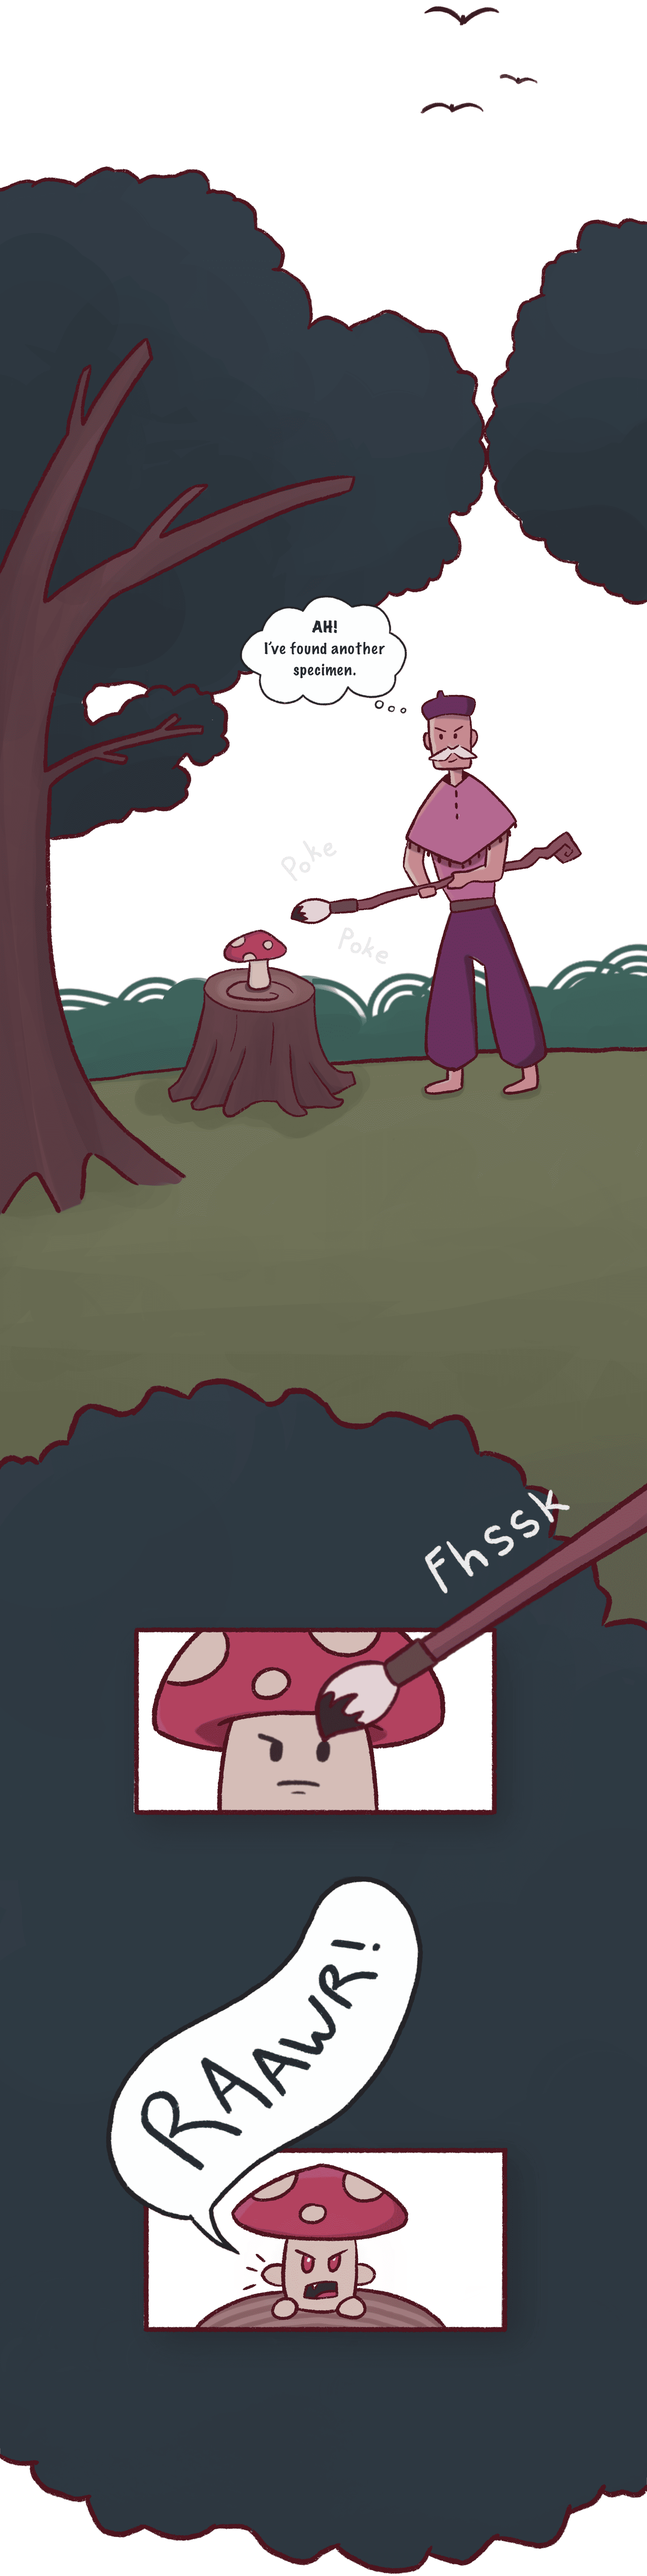
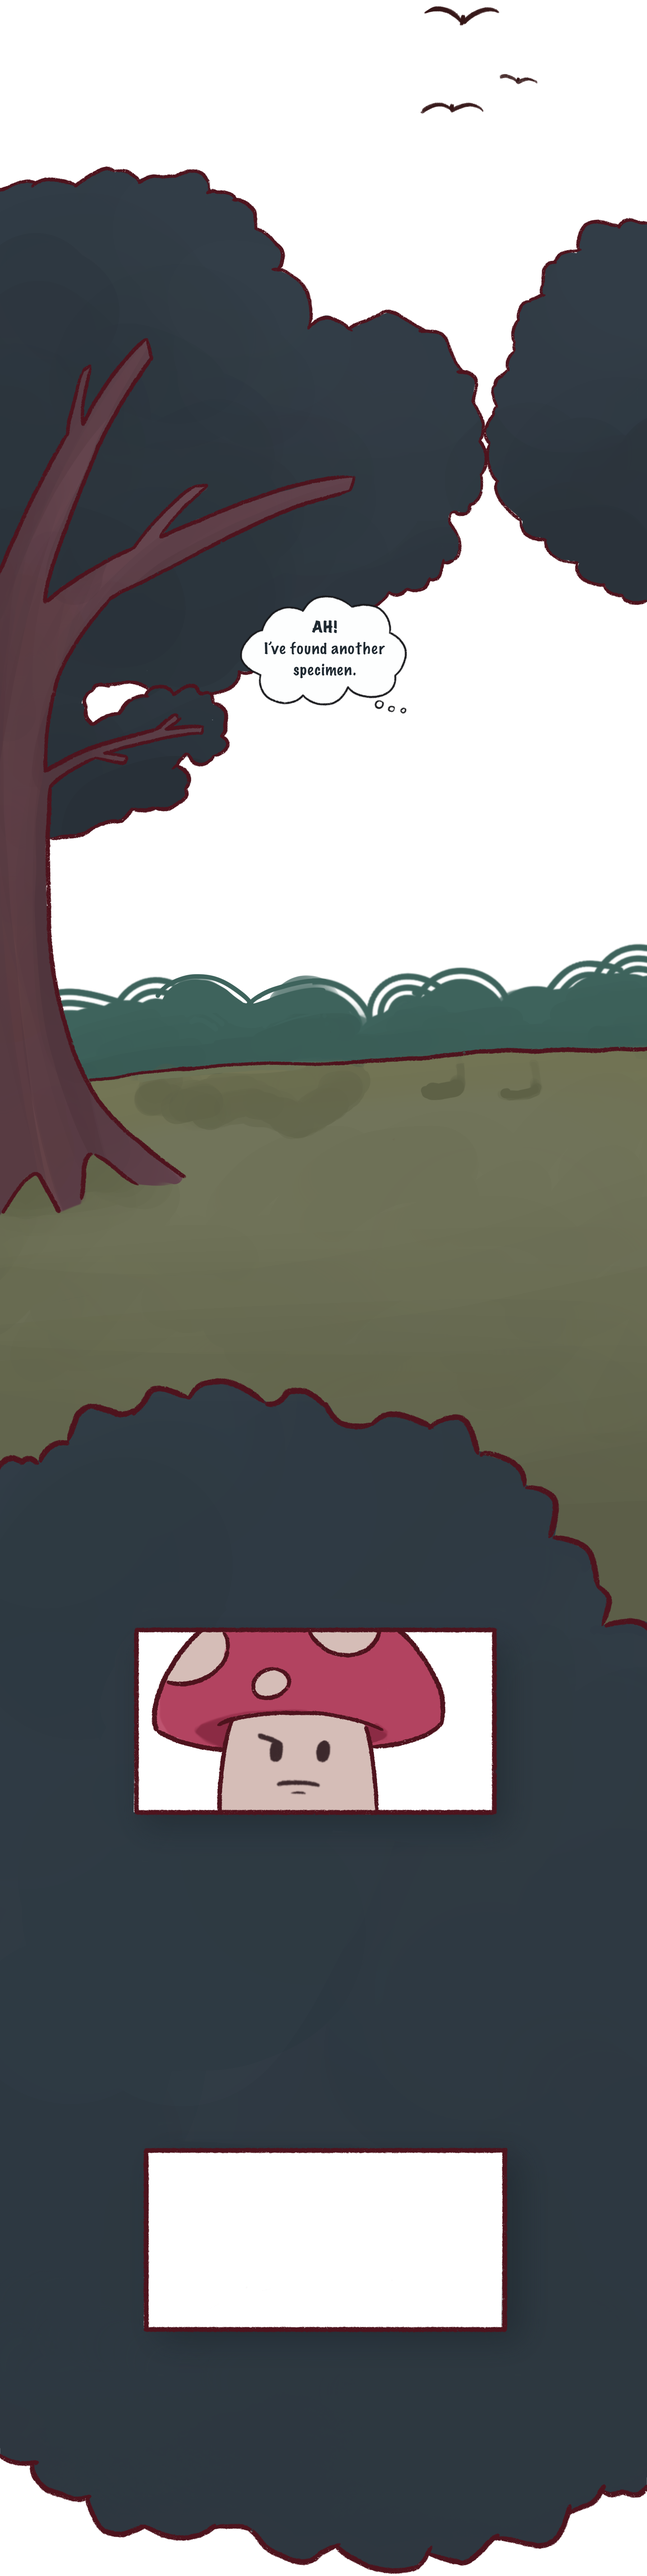
Finished Project 3 Deliverable 2

diff --git a/src/components/Comic1.vue b/src/components/Comic1.vue
@@ -9,6 +9,15 @@
 
             <img src="@/assets/images/comic/part1/1.png" class="one">
             <img src="@/assets/images/comic/part1/2.png" class="two">
+            <img src="@/assets/images/comic/part1/brush.png" class="paralx_brush">
+            
+            <img src="@/assets/images/comic/part1/poke_animation.gif" class="poke">
+            <img src="@/assets/images/comic/part1/rawr_animation.gif" class="rawr">
+            <img src="@/assets/images/comic/part1/fungarh_animation.gif" class="fugnarh">
+
+            <img src="@/assets/images/comic/part1/whisp1.png" class="hover w1">
+            <img src="@/assets/images/comic/part1/whisp2.png" class="hover w2">
+            <img src="@/assets/images/comic/part1/whisp3.png" class="hover w3">
             
 
         </div>
@@ -16,8 +25,6 @@
   </template>
   
 <script>
-
-
 </script>
 
 <style scoped>
@@ -49,6 +56,64 @@
         top: 120vw;
         left: 0vw;
         width: 100vw;
+        z-index: 100;
+    }
+
+    .poke{
+        position: absolute;
+        top: 206.5vw;
+        left: 0vw;
+        width: 100vw;
+        z-index: 100;
+    }
+
+    
+    .paralx_brush{
+        position: absolute;
+        top: 349vw;
+        left: 35vw;
+        width: 100vw;
+        z-index: 200;
+        transition: left 0.1s linear;
+    }
+
+    .rawr{
+        position: absolute;
+        top: 407vw;
+        left: 0vw;
+        width: 100vw;
+        z-index: 100;
+    }
+
+    .fugnarh{
+        position: absolute;
+        top: 570vw;
+        left: 6vw;
+        width: 85vw;
+        z-index: 100;
+    }
+
+    .w1{
+        position: absolute;
+        top: 515vw;
+        left: -2vw;
+        width: 45vw;
+        z-index: 100;
+    }
+
+    .w2{
+        position: absolute;
+        top: 875vw;
+        left: 0vw;
+        width: 35vw;
+        z-index: 100;
+    }
+
+    .w3{
+        position: absolute;
+        top: 1058vw;
+        left: 0vw;
+        width: 53vw;
         z-index: 100;
     }
 

diff --git a/src/components/Comic2.vue b/src/components/Comic2.vue
@@ -6,7 +6,15 @@
 
             <img src="@/assets/images/comic/part2/3.png" class="three">
             <img src="@/assets/images/comic/part2/4.png" class="four">
+
+            <img src="@/assets/images/comic/part2/sky.png" class="sky">
+
+            <img src="@/assets/images/comic/part2/cloud1.png" class="cloud1">
+            <img src="@/assets/images/comic/part2/cloud2.png" class="cloud2">
+            <img src="@/assets/images/comic/part2/cloud3.png" class="cloud3">
             
+            <img src="@/assets/images/comic/part2/evil_animation.gif" class="evil">
+            <img src="@/assets/images/comic/part2/whisp4.png" class="hover w4">
 
         </div>
     </div>
@@ -32,12 +40,64 @@
         z-index: 100;
     }
 
+    .sky{
+        position: absolute;
+        top: 0vw;
+        left: 0vw;
+        width: 100vw;
+        z-index: 0;
+        opacity: 0.9;
+    }
+
     .four{
         position: absolute;
         top: 420vw;
         left: 0vw;
         width: 100vw;
         z-index: 100;
+    }
+
+    .evil{
+        position: absolute;
+        top: 318vw;
+        left: 0vw;
+        width: 100vw;
+        z-index: 100;
+    }
+
+    .w4{
+        position: absolute;
+        top: 318vw;
+        left: 0vw;
+        width: 45vw;
+        z-index: 100;
+    }
+
+    .cloud1{
+        position: absolute;
+        top: 90vw;
+        left: -29vw;
+        width: 30vw;
+        z-index: 50;
+        animation: floatRight 180s ease infinite;
+    }
+
+    .cloud2{
+        position: absolute;
+        top: 110vw;
+        left: 100vw;
+        width: 20vw;
+        z-index: 50;
+        animation: floatLeft 150s ease infinite;
+    }
+
+    .cloud3{
+        position: absolute;
+        top: 130vw;
+        left: 30vw;
+        width: 25vw;
+        z-index: 50;
+        animation: floatLeft 80s ease infinite;
     }
 
     

diff --git a/src/assets/script.js b/src/assets/script.js
@@ -42,3 +42,29 @@ document.addEventListener("DOMContentLoaded", function () {
     window.addEventListener('scroll', revealOnScroll);
     revealOnScroll();
 });
+
+//horisontal paralax scrolling
+document.addEventListener("DOMContentLoaded", function () {
+    const brush = document.querySelector(".paralx_brush");
+
+    const updateBrushPosition = () => {
+        if (!brush) return;
+
+        const brushRect = brush.getBoundingClientRect();
+        const windowHeight = window.innerHeight;
+
+        if (brushRect.bottom > 0 && brushRect.top < windowHeight) {
+            const visibleRatio = 1 - (brushRect.top / windowHeight); 
+            const clamped = Math.max(0, Math.min(visibleRatio, 1));
+
+            const startLeft = 35;
+            const endLeft = 0;
+            const newLeft = startLeft + (endLeft - startLeft) * clamped;
+
+            brush.style.left = `${newLeft}vw`;
+        }
+    };
+
+    window.addEventListener('scroll', updateBrushPosition);
+    updateBrushPosition();
+});

diff --git a/src/assets/main.css b/src/assets/main.css
@@ -63,4 +63,37 @@ html {
     transform: translateY(0);
 }
 
+@keyframes hover {
+  0% {
+    transform: translateY(0);
+  }
+  50% {
+    transform: translateY(-1vw);
+  }
+  100% {
+    transform: translateY(0);
+  }
+}
+
+.hover {
+  animation: hover 2.8s ease-in-out infinite;
+}
+
+@keyframes floatRight {
+  0% {
+    transform: translateX(0);
+  }
+  100% {
+    transform: translateX(150vw);
+  }
+}
+
+@keyframes floatLeft {
+  0% {
+    transform: translateX(0);
+  }
+  100% {
+    transform: translateX(-120vw);
+  }
+}
 
